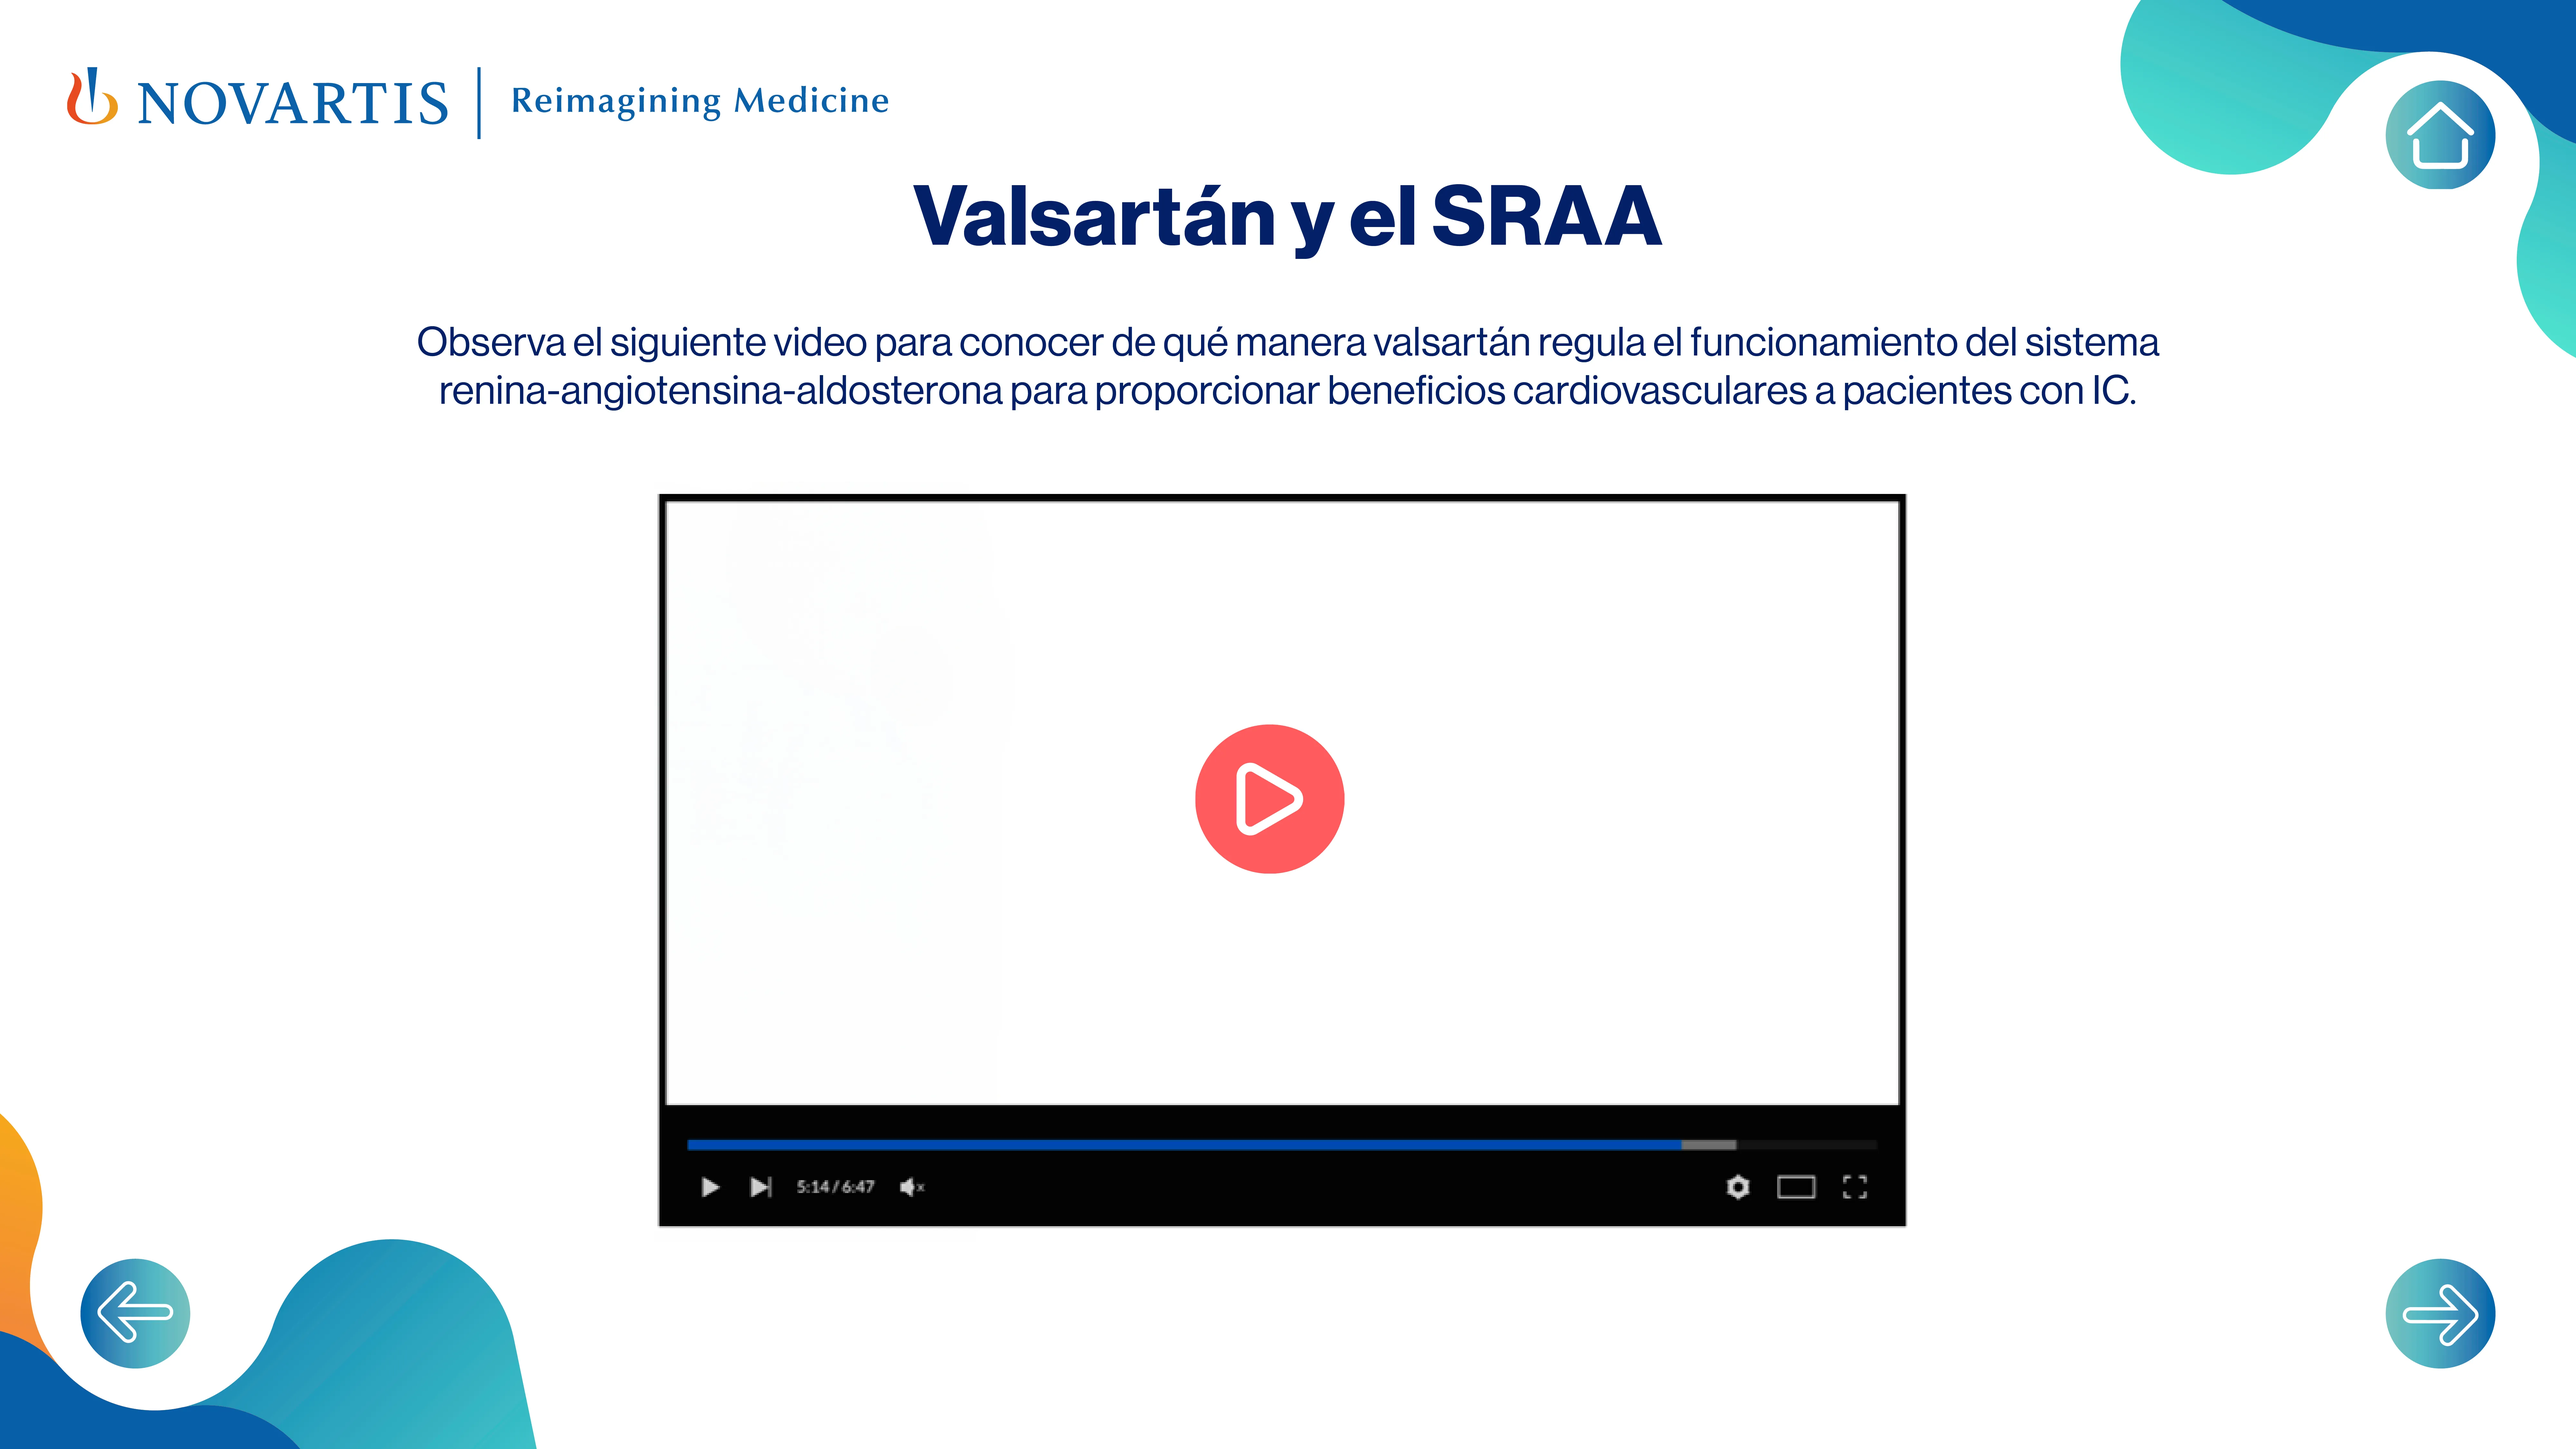
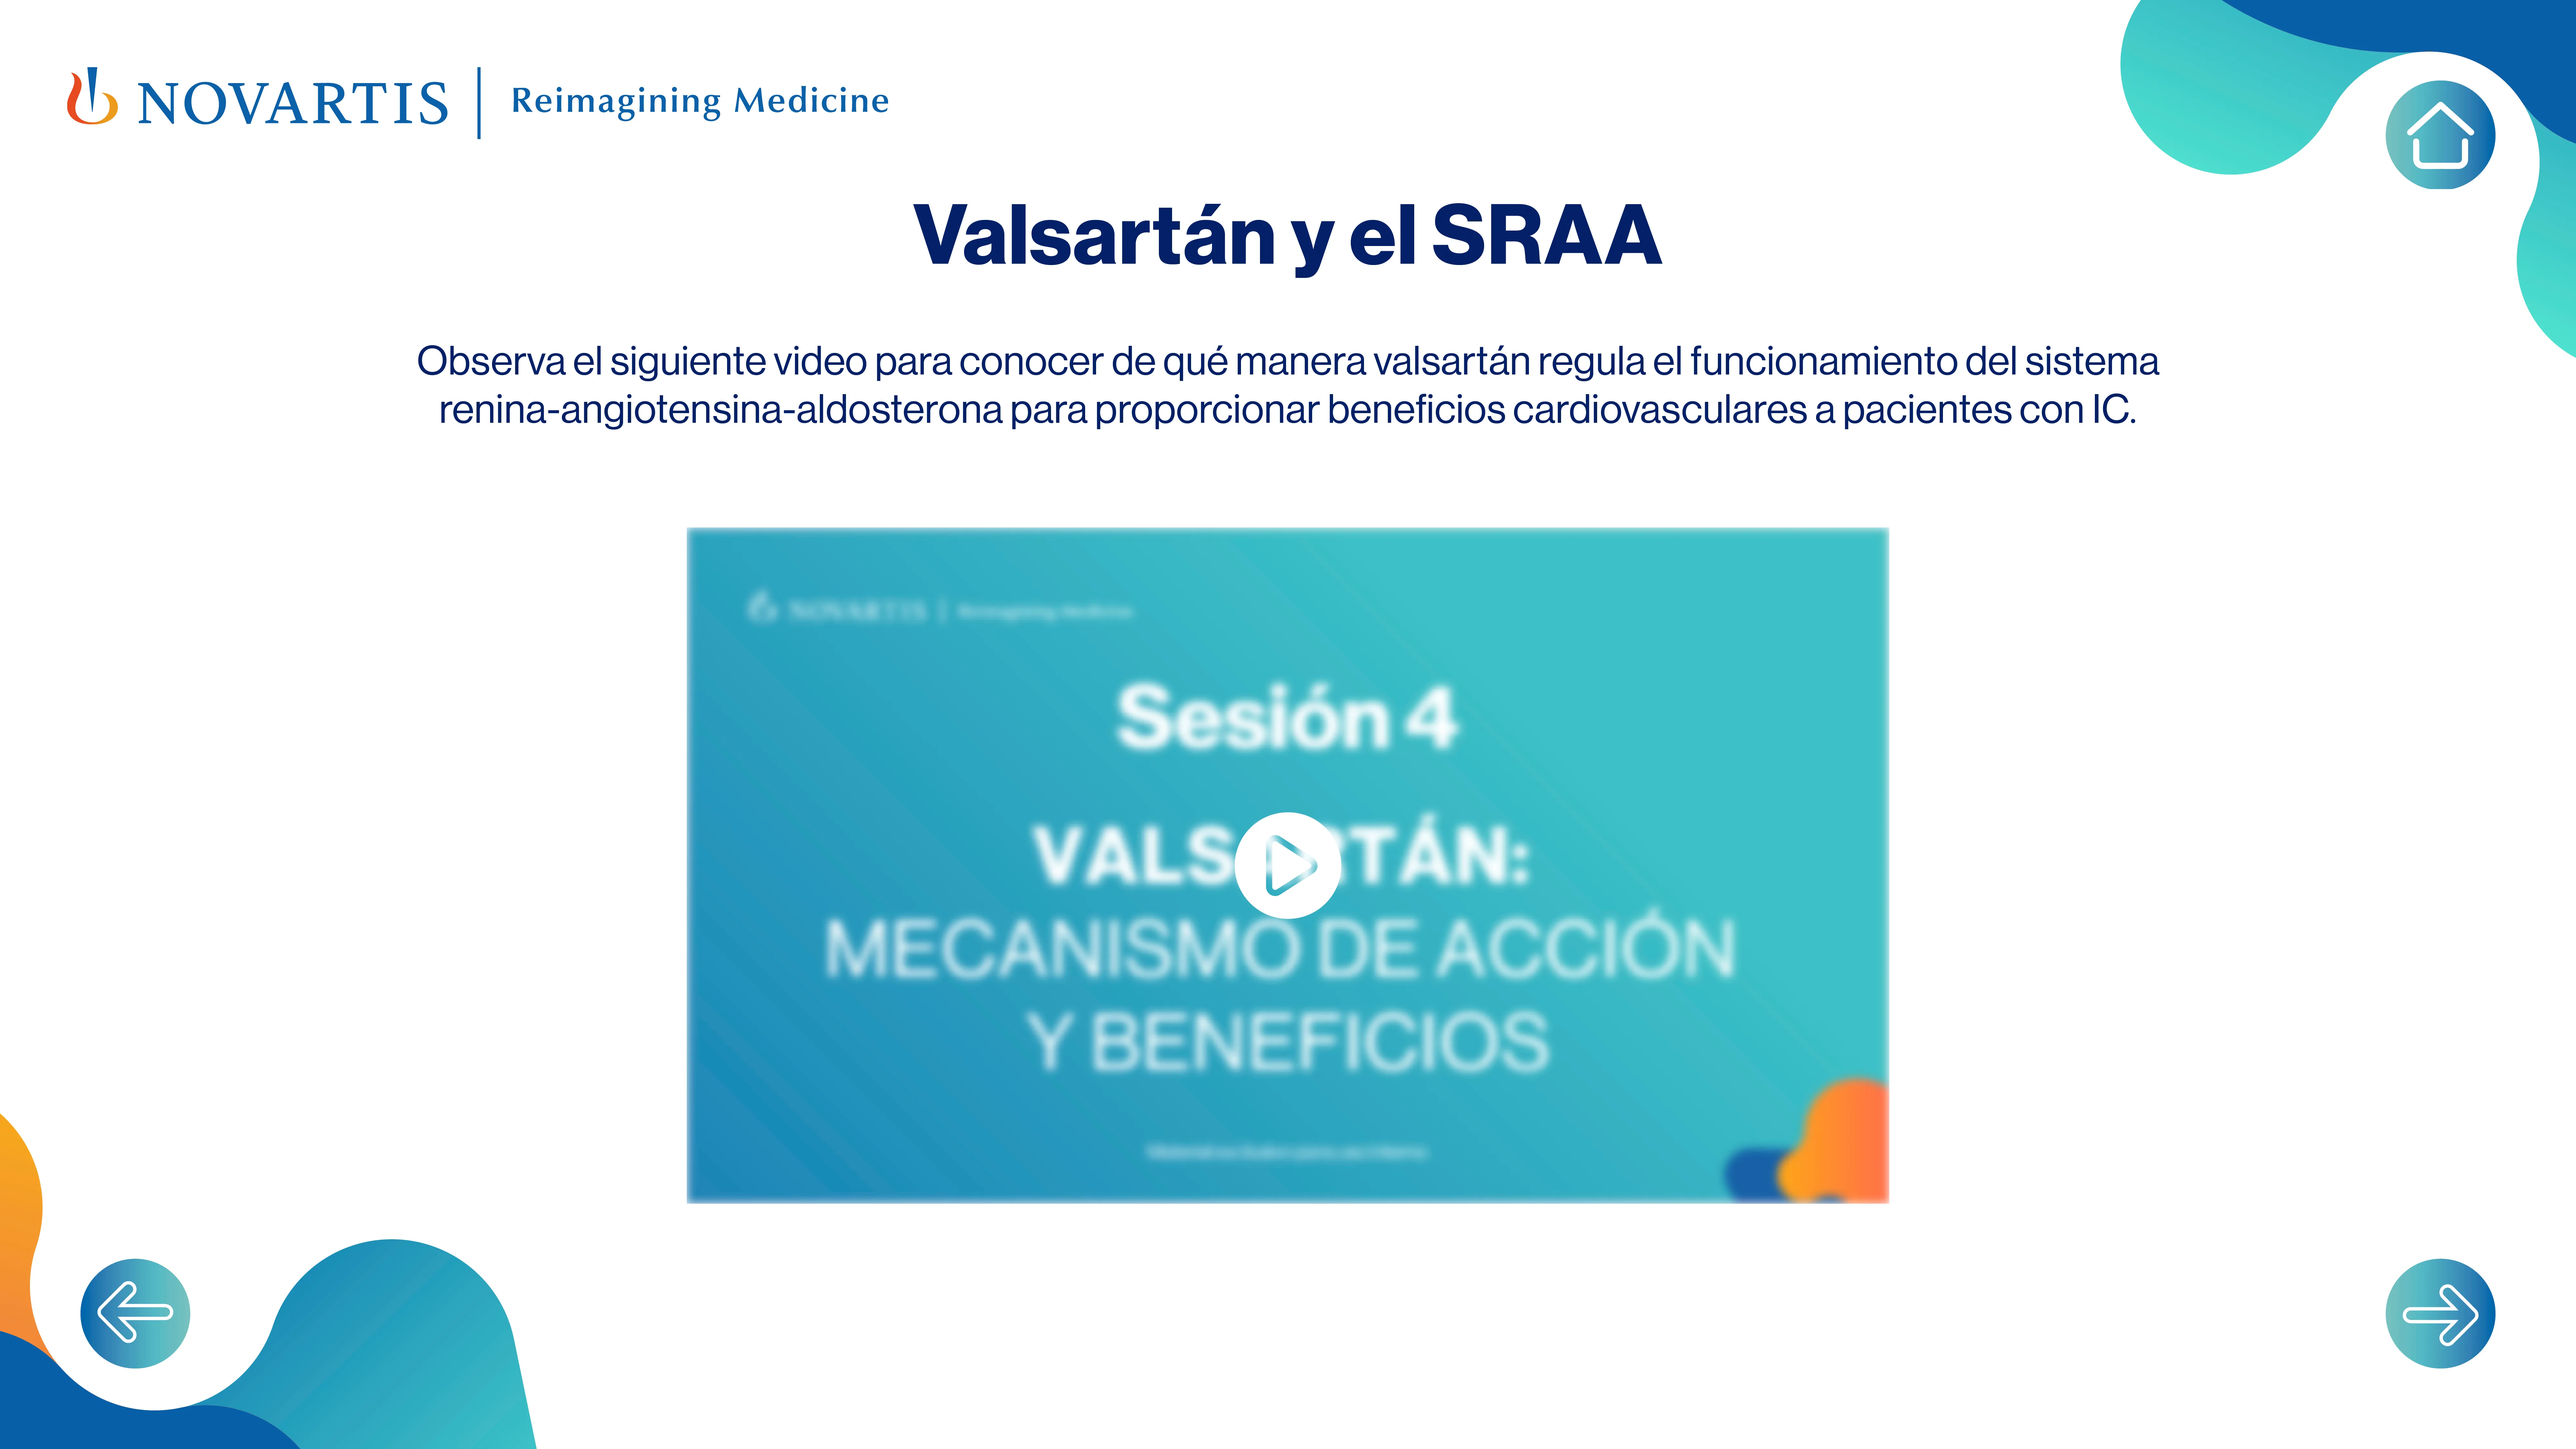
cambio imagenes

Changed region(s): [[0.25, 0.3422, 0.75, 0.8711], [0.1562, 0.2178, 0.8438, 0.3111], [0.3438, 0.1244, 0.6562, 0.1867]]

diff --git a/css/styles240.css b/css/styles240.css
@@ -49,10 +49,10 @@ body {
 .reproduc {
 	z-index: 1;
 	position: absolute;
-	top: 26.5%;
-    left: 25.1%;
-    width: 49.6%;
-    height: 52%;
+	top: 22.1%;
+    left: 23%;
+    width: 53.1%;
+    height: 54%;
 	background: black;
 	border-radius: 2%;
 	display: none;

diff --git a/css/styles246.css b/css/styles246.css
@@ -94,7 +94,7 @@ body {
 .boton-play {
 	position: absolute;
 	width: 6%;
-	top: 50%;
+	top: 54%;
     left: 46.4%;
 	animation-duration: 0.5s !important;
 }
